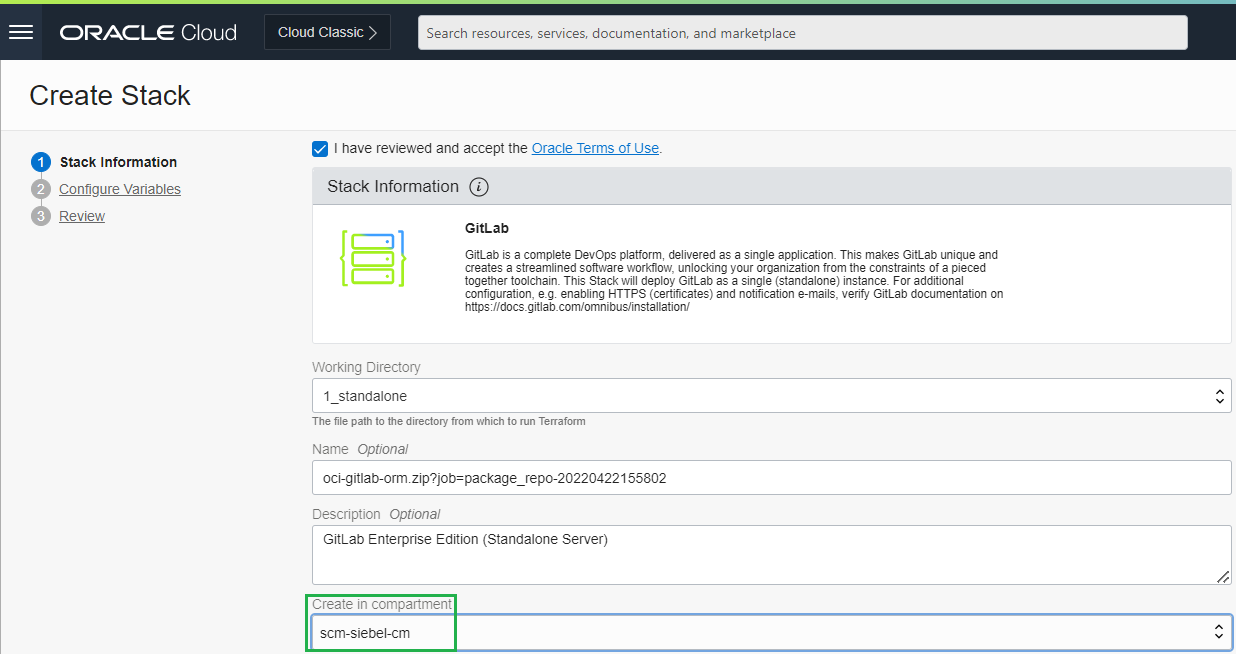
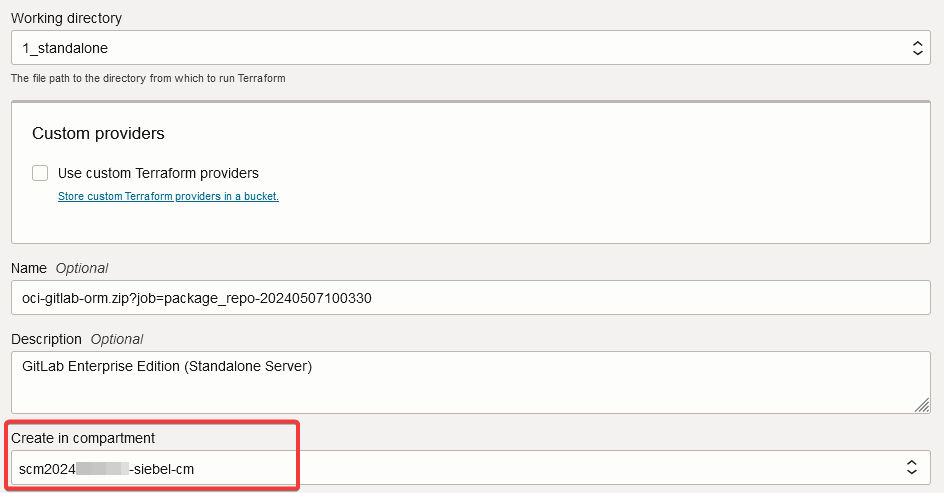
Update Gitlab Provisioning Lab

Changed region(s): [[0.0, 0.0, 1.0, 0.4868], [0.0, 0.5172, 1.0, 1.0], [0.0, 0.6694, 0.1536, 0.6998]]

diff --git a/siebel-cloud-manager/setup-gitlab/setup-gitlab.md b/siebel-cloud-manager/setup-gitlab/setup-gitlab.md
@@ -27,17 +27,25 @@ In this task, we will visit the Oracle Architecture Center to deploy the GitLab 
 
 During the stack creation, review all default values displayed. Confirm each value or enter a new value as appropriate for our task.
 
-1. Go to this document about deploying GitLab - [https://docs.oracle.com/en/solutions/deploy-gitlab-ci-cd-oci/index.html](https://docs.oracle.com/en/solutions/deploy-gitlab-ci-cd-oci/index.html)
+1. Click the following link to review documentation about deploying GitLab - [https://docs.oracle.com/en/solutions/deploy-gitlab-ci-cd-oci/index.html](https://docs.oracle.com/en/solutions/deploy-gitlab-ci-cd-oci/index.html)
 
 2. In the Deploy section of this page, click the **Deploy to Oracle Cloud** link.
 
     ![In the Deploy section, click the Deploy to Oracle Cloud link](./images/deploy-to-oracle-cloud.png " ")
 
-3. In the stack information section, specify the compartment in which to create the GitLab stack and leave the default values for **Working Directory**, **Name**, **and Description** . Click ***Next***
+3. Check the region if necessary in case the deploy link changed it.
+
+    ![Change deployment region](./images/deployment-region.png " ")
+
+4. In the **Stack information** section, specify the **Compartment** in which to create the GitLab stack. In the SCM provisioning lab, a new sub-compartment was automatically provisioned as part of Task 2. To keep everything together, specify that compartment here.
 
     ![GitLab Stack Information](./images/gitlab-stack-information.png " ")
 
-4. In **Compute Configuration** section, specify the new compartment **scm-siebel-cm** (created by the Siebel Cloud Manager stack) and the rest of the options such as **Availability Domain, Instance name, DNS Hostname Label, Flex Shape OCPUs, and Compute Image** as shown below. Leave the default values for **External URL, Tag key name, and Tag value**
+
+5. Leave the default values for **Working Directory**, **Name**, **and Description**. Click ***Next***
+
+
+6. In **Compute Configuration** section, specify the same compartment again for **Compute Compartment**. Complete the remaining options as shown below. Leave the default values for **External URL, Tag key name, and Tag value**
 
     **Availability Domain:**
 
@@ -51,20 +59,29 @@ During the stack creation, review all default values displayed. Confirm each val
 
         <copy>gitlabserver</copy>
 
-    **Flex Shape OCPUs:**
+    **Compute Shape:**
 
-        <copy>1</copy>
+        VM.Standard.E3.Flex
+
     **Flex Shape Memory:**
 
-        <copy>6</copy>
+        6
+
+    **Flex Shape OCPUs:**
+
+        1
 
     **Compute Image**
 
-        (Choose any image from the list)
+        (Choose the most recent image from the list)
+
+    **Public SSH Key string**
+
+        (Paste in (or choose) the SSH public key you used in the previous lab)
 
     **Network Compartment**
 
-        <copy>scm-siebel-cm</copy>
+        (Copy the compartment you selected for the Compute Compartment above)
 
     **Network Strategy**
 
@@ -72,7 +89,7 @@ During the stack creation, review all default values displayed. Confirm each val
 
     **Existing VCN**
 
-        (Choose the VCN that was previously created by the Siebel Cloud Manager stack)
+        (Choose the VCN that was previously created by the Siebel Cloud Manager stack - it should be the only option for the selected compartment)
 
     **Subnet Type**
 
@@ -86,33 +103,43 @@ During the stack creation, review all default values displayed. Confirm each val
 
         Use Recommended Configuration
 
-5. Click ***Next***
+7. Click ***Next***
 
-6. Verify the configuration variables. To immediately provision the resources defined in the Terraform configuration, check **Run Apply**
+8. Verify the configuration variables. To immediately provision the resources defined in the Terraform configuration, check that **Run Apply** is ticked
    
-7. Click ***Create***
+9. Click ***Create***
 
-     The GitLab stack **apply** job will run successfully.
+     The GitLab stack **apply** job should run successfully.
 
 ## Task 2: Configure HTTPS for GitLab
 
 1. On the Oracle Cloud Console page, navigate to **Compute** and **Instances**.
 
-2. In the **List Scope** section on the left side panel, choose our compartment **scm-siebel-cm**.
+2. In the **List Scope** section on the left side panel, choose the compartment used for the lab **scm-siebel\<date\>-cm**.
 
-3. Drill down on the instance name **gitlab-server** and note the Public IP address.
+3. Note the Public IP address.
 
-   ![Drilldown on GitLab server](./images/drilldown-on-gitlab-server.png " ")
+   ![Note public IP](./images/note-public-ip-address.png " ")
 
-4. Connect to this instance through an ssh client such as PuTTY using the ssh private key that we had created in Lab 1. Enter the username as **opc**
+4. Connect to this instance via ssh or through an ssh client such as PuTTY using the ssh private key that we had created in Lab 1 and a username of **opc**
 
-5. After successful login, execute the following command to change to root user.
+   ```
+   $ <copy>ssh -i cloudshellkey opc@{Public IP of GitLab instance}</copy>
+   ```
+
+5. You can check the version of Gitlab installed as follows
+
+   ```
+   $ <copy>sudo gitlab-rake gitlab:env:info</copy>
+   ```
+
+6. After successful login, execute the following command to change to root user.
 
    ```
    $ <copy>sudo su</copy>
    ```
 
-6. In the **/etc/gitlab/gitlab.rb** file, edit the **external_url** parameter as shown below using the vi editor.
+7. In the **/etc/gitlab/gitlab.rb** file, edit the **external_url** parameter as shown below using the vi editor, then save your changes and close the file.
 
    ```
    $ <copy>vi /etc/gitlab/gitlab.rb</copy>
@@ -120,22 +147,15 @@ During the stack creation, review all default values displayed. Confirm each val
    external_url 'https://{Public IP of the GitLab Instance}'
    ```
 
-7. In the same file, disable the **letsencrypt** feature by setting its value to **false**
+8. Create a self-signed certificates using OpenSSL. Run the following commands one by one to begin the process.
+
+    > **Note:** Self-signed certificates are only suggested for this lab. Typically you will use Certificate Authority (CA) signed certificates. Follow [Gitlab's documentation to troubleshoot SSL issues](https://docs.gitlab.com/omnibus/settings/ssl/ssl_troubleshooting.html)
 
    ```
-   $ <copy>vi /etc/gitlab/gitlab.rb</copy>
-
-   letsencrypt['enable'] = false
-   ```
-8. Create the self-signed certificates using OpenSSL. Run the following commands one by one.
-
-    > **Note:** The self-signed certificates are only for this lab. For a real-world implementation, use Certificate Authority (CA) signed certificates for security reasons.
-
-   ```
-   $ <copy>sudo mkdir -p /etc/gitlab/ssl</copy>
+   $ <copy>mkdir -p /etc/gitlab/ssl</copy>
    ```
    ```
-   $ <copy>sudo chmod 755 /etc/gitlab/ssl</copy>
+   $ <copy>chmod 755 /etc/gitlab/ssl</copy>
    ```
    ```
    $ <copy>cd /etc/gitlab/ssl</copy>
@@ -152,13 +172,20 @@ During the stack creation, review all default values displayed. Confirm each val
    ```
    $ <copy>openssl req -new -key {Public IP of GitLab instance}.key -out {Public IP of GitLab instance}.csr -subj "/CN=localhost"</copy>
    ```
-9. Create a configuration file named **device-csr.conf** under **/etc/gitlab/ssl** directory with the following content.
+9. Create a configuration file named **device-csr.conf**
+
+   ```
+   $ <copy>vi device-csr.conf</copy>
+   ```
+
+10. Populate this file with the following the save and close the file
 
    ```
    <copy>[req]
    distinguished_name = req_distinguished_name
    req_extensions = v3_req
    prompt = no
+
    [req_distinguished_name]
    C = US
    ST = UT
@@ -166,41 +193,53 @@ During the stack creation, review all default values displayed. Confirm each val
    O = Oracle
    OU = Corp
    CN = localhost
+
    [v3_req]
    keyUsage = nonRepudiation, digitalSignature, keyEncipherment
    extendedKeyUsage = serverAuth
    subjectAltName = @alt_names
+
    [alt_names]
    IP.1 = {Public IP of GitLab instance}</copy>
    ```
-10. After the file **device-csr.conf** is created, run the following command.
+
+11. Run the following command to finally create a self-signed certificate
 
    ```
    $ <copy>openssl x509 -req -in {Public IP of GitLab instance}.csr -CA rootCA.crt -CAkey rootCA.key -CAcreateserial -out {Public IP of GitLab instance}.crt -extfile device-csr.conf -extensions v3_req -days 365</copy>
    ```
-11. Reconfigure GitLab by running the below command.
+
+12. Reconfigure GitLab by running the below command.
 
    ```
-   $ <copy>sudo gitlab-ctl reconfigure</copy>
-   ```
-12. Copy the **rootCA.crt** from **/etc/gitlab/ssl** folder to the Siebel Cloud Manager instance's **/home/opc/certs** folder.
-
-## Task 3:  Upgrade GitLab for enhanced security
-
-To avoid **CVE-2021-22205** vulnerability, we shall now upgrade GitLab.
-
-
-1. In the GitLab instance's terminal, run the following command.
-
-   ```
-   $ <copy>sudo yum install -y gitlab-ee-13.8.8-ee.0.el8</copy>
+   $ <copy>gitlab-ctl reconfigure</copy>
    ```
 
-2. Once the above command finishes upgrading GitLab, restart GitLab by executing the below command.
+13. Prepare to copy **rootCA.crt** from Gitlab machine to SCM machine by creating a file on the Gitlab machine containing the SSH key.
 
    ```
-   $ <copy>sudo gitlab-ctl restart</copy>
+   $ <copy>vi ~/cloudshellkey</copy>
    ```
+
+14. Paste in the private key you created earlier then save the file and close it.
+
+15. Change the permission of the private key so that it's not visible to other users
+
+   ```
+   $ <copy>chmod 600 ~/cloudshellkey</copy>
+   ```
+
+13. Copy the **rootCA.crt** from **/etc/gitlab/ssl** folder to the Siebel Cloud Manager instance's **/home/opc/certs** folder.
+
+   ```
+   $ <copy>scp -i ~/cloudshellkey rootCA.crt opc@{Public IP address for SCM instance}:/home/opc/certs</copy>
+   ```
+
+## Task 3:  Plan to keep your Gitlab instance up to date
+
+1. Review [Gitlab's documentation for updating](https://docs.gitlab.com/ee/update/)
+
+2. Keep an eye on [Gitlab's release page](https://about.gitlab.com/releases/categories/releases/) to be aware of new releases, the issues they fix, and the features they offer
 
 ## Task 4:  Generate a GitLab Access Token
 
@@ -211,28 +250,35 @@ We need to generate a GitLab Access Token that will be used in Lab 4 where we de
    ```
    <copy>https://{Public IP of GitLab Instance}</copy>
    ```
+
    > **Note:** Sometimes, we might encounter the **502 Error** upon launching the GitLab URL and refreshing the page at the time should display the right content.
 
-   
-2. Give a new password for the **root** user per the prompt, confirm the password, and click ***Change your password***.
+   > **Note:** As we're using a self-signed certificate, your browser is expected to complain and ask for your explicit permission to access the security risk entailed.
 
-   ![GitLab New Password](./images/gitlab-new-password.png)
+2. Obtain the initial root user password, randomly generated during installation from the gitlab machine.
 
-3. We will be prompted to log in to GitLab. Enter the following credentials and click ***Sign in***.
+   ```
+   $ <copy>ssh -i cloudshellkey opc@{Public IP of GitLab instance}</copy>
+   ```
+   ```
+   $ <copy>sudo more /etc/gitlab/initial_root_password</copy>
+   ```
 
-    **Username**
+2. Log in as root with the initial root password..
 
-        <copy>root</copy>
+   ![GitLab Login](./images/gitlab-initial-login.png)
 
-    **Password**
+3. If you wish to change, the root password from the default, now is a good time. The file above will be deleted 24 hours after initial setup. Click on the user icon on the right hand side at the top left, and select **Edit Profile**
 
-        {The new password that was set earlier}
+   ![GitLab Edit Profile](./images/gitlab-edit-profile.png)
 
-4. After logging in, click the ***Profile Icon*** in the right-hand top corner and click ***Settings***.
+4. Now click the **Password** option on the left menu, and fill in the form to change the password, then click **Save password**.
 
-   ![GitLab Profile Icon](./images/gitlab-profile-icon.png)
+   ![GitLab Edit Profile](./images/gitlab-change-password.png)
 
-5. In the left side panel, navigate to ***Access Tokens*** page.
+5. In the left side panel, navigate to ***Access Tokens*** and then click **Add new token** on the right hand side.
+
+   ![GitLab Profile Icon](./images/gitlab-add-new-token.png)
 
 6. Give the following values for the respective fields.
 
@@ -242,7 +288,7 @@ We need to generate a GitLab Access Token that will be used in Lab 4 where we de
 
     **Expires at:**
 
-        {Give a distant future date}
+        {Give a future date not more than a year away}
 
     **Scope:**
 
@@ -250,9 +296,9 @@ We need to generate a GitLab Access Token that will be used in Lab 4 where we de
 
    ![GitLab Access Token](./images/gitlab-access-token.png)
 
-7. Click ***Create Personal Access Token***.
+7. Scroll down and click ***Create Personal Access Token***.
 
-8. Note the token displayed in the **Your new personal access token** field.
+8. Note the token displayed in the **Your new personal access token** field (click the eye icon to see, or the copy icon to copy to the clipboard).
 
    ![Access Token Generated](./images/access-token-generated.png)
 
@@ -264,6 +310,6 @@ You may now **proceed to the next lab**.
 
 ## Acknowledgements
 
-* **Author:** Shyam Mohandas, Principal Cloud Architect; Sampath Nandha, Principal Cloud Architect
+* **Author:** Duncan Ford, Software Engineer; Shyam Mohandas, Principal Cloud Architect; Sampath Nandha, Principal Cloud Architect
 * **Contributors** - Vinodh Kolluri, Raj Aggarwal, Mark Farrier, Sandeep Kumar
-* **Last Updated By/Date** - Sampath Nandha, Principal Cloud Architect, March 2023
+* **Last Updated By/Date** - Duncan Ford, Software Engineer, May 2024

diff --git a/siebel-cloud-manager/provision-scm/provision-scm.md b/siebel-cloud-manager/provision-scm/provision-scm.md
@@ -107,7 +107,7 @@ The Siebel Cloud Manager Stack will create the following resources,
 
    ![Select instance resource options](./images/select-scm-instance-resources.png)
 
-    f. Ensure you click to assign a public ip address initially. This will allow easy initial access for SSH. No other ports will be exposed by default, and you can constrain access to SCM's web interface to your specific IP address or set of addresses later on, or configure a bastion service, VPN access and so on.
+    f. Ensure you click to assign a public ip address initially. This will allow easy initial access for SSH and the SCM UI. No other ports will be exposed by default, and you can constrain access to SCM's web interface to your specific IP address or set of addresses later on, or configure a bastion service, VPN access and so on.
 
    ![Assign public ip address](./images/assign-public-ip-address.png)
 
